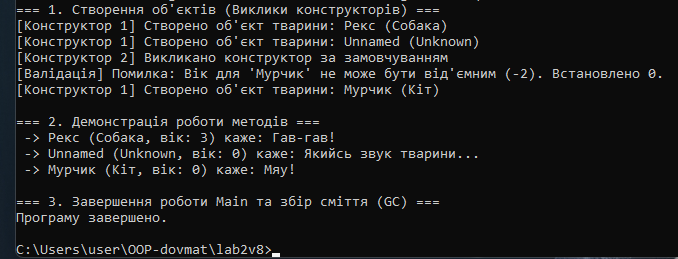
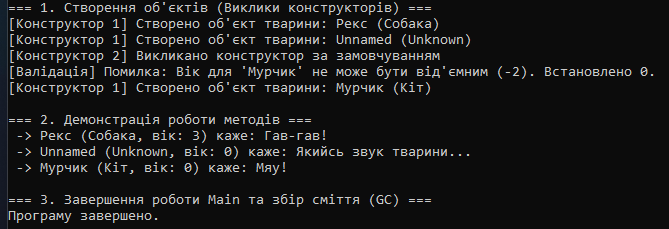
Оновлено вміст папки

Changed region(s): [[0.0, 0.0, 1.0, 1.0]]

diff --git a/lab2v8/README.md b/lab2v8/README.md
@@ -1,4 +1,4 @@
-ЗВІТ
+##ЗВІТ
 з лабораторної роботи №2
 з дисципліни «Об'єктно-орієнтоване програмування»
 Тема: Клас із кількома конструкторами. Життєвий цикл об’єкта.
@@ -7,13 +7,13 @@
  Посилання на GitHub-репозиторій
  https://github.com/maks1dv/OOP-Dovmat/tree/main/lab2v8
 
- Висновок
+ ##Висновок
 Під час виконання лабораторної роботи було освоєно механізм перевантаження конструкторів та досліджено життєвий цикл об'єкта в C#. Використання синтаксису : this(...) дозволило створити ланцюговий виклик конструкторів, що мінімізує дублювання коду та забезпечує єдину точку ініціалізації. Досліджено три етапи життя об'єкта: виділення пам'яті в купі через new, використання об'єкта та його очищення автоматичним збирачем сміття (Garbage Collector), який запускає фіналізатор (~Pet()) перед знищенням недосяжних об'єктів.
 Що таке перевантаження конструкторів і яку перевагу воно дає?
 
 
 
-контрольні запитання 
+##контрольні запитання 
 
 
 
@@ -30,4 +30,4 @@
 Чому в реальних програмах не рекомендується викликати GC.Collect() вручну?
 
 Це зупиняє виконання програми (паузи Stop-the-World) і збиває внутрішні алгоритми оптимізації GC, що суттєво знижує продуктивність.
-![alt text](image-1.png)
+![alt text](image.png)
